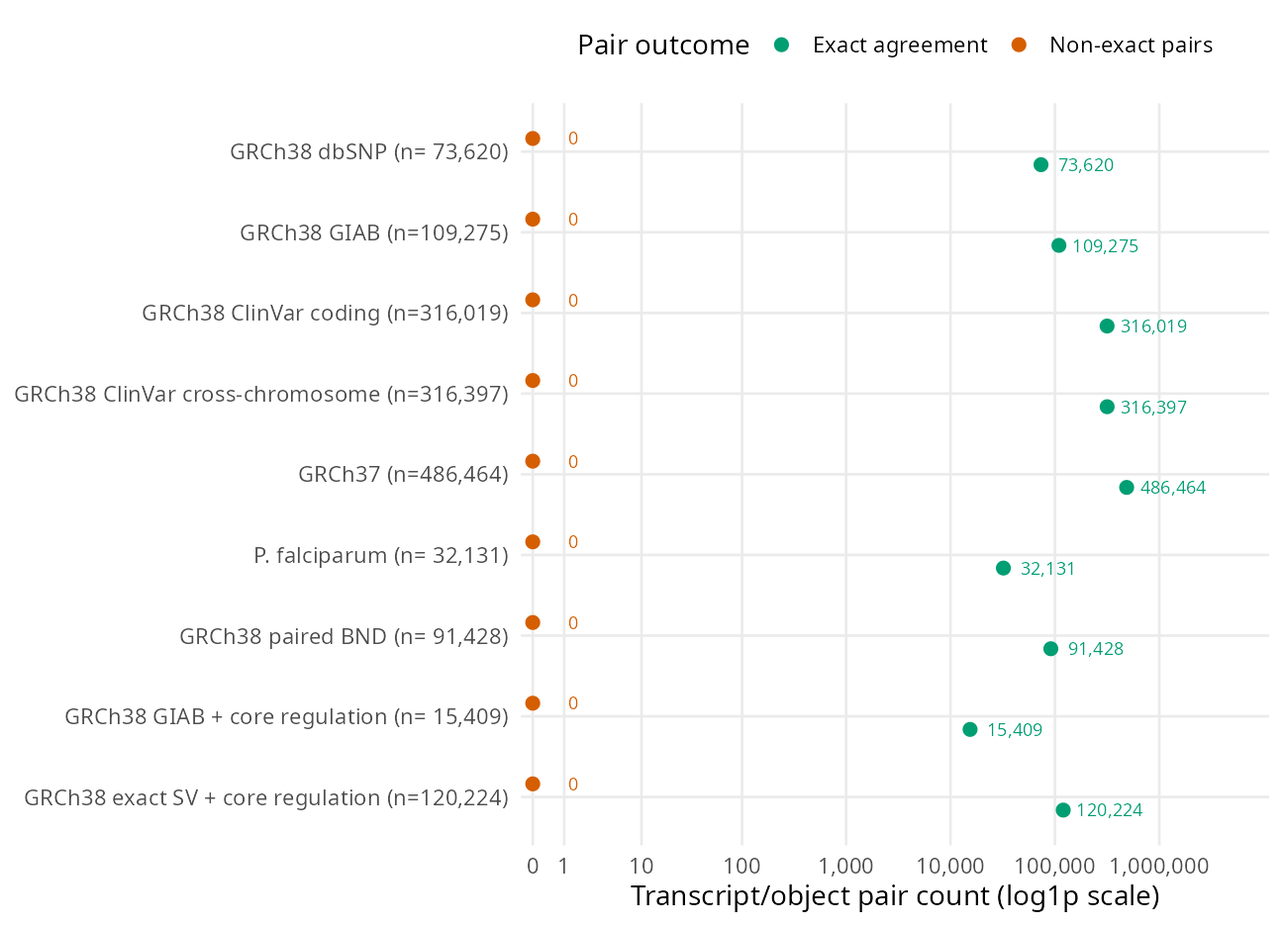
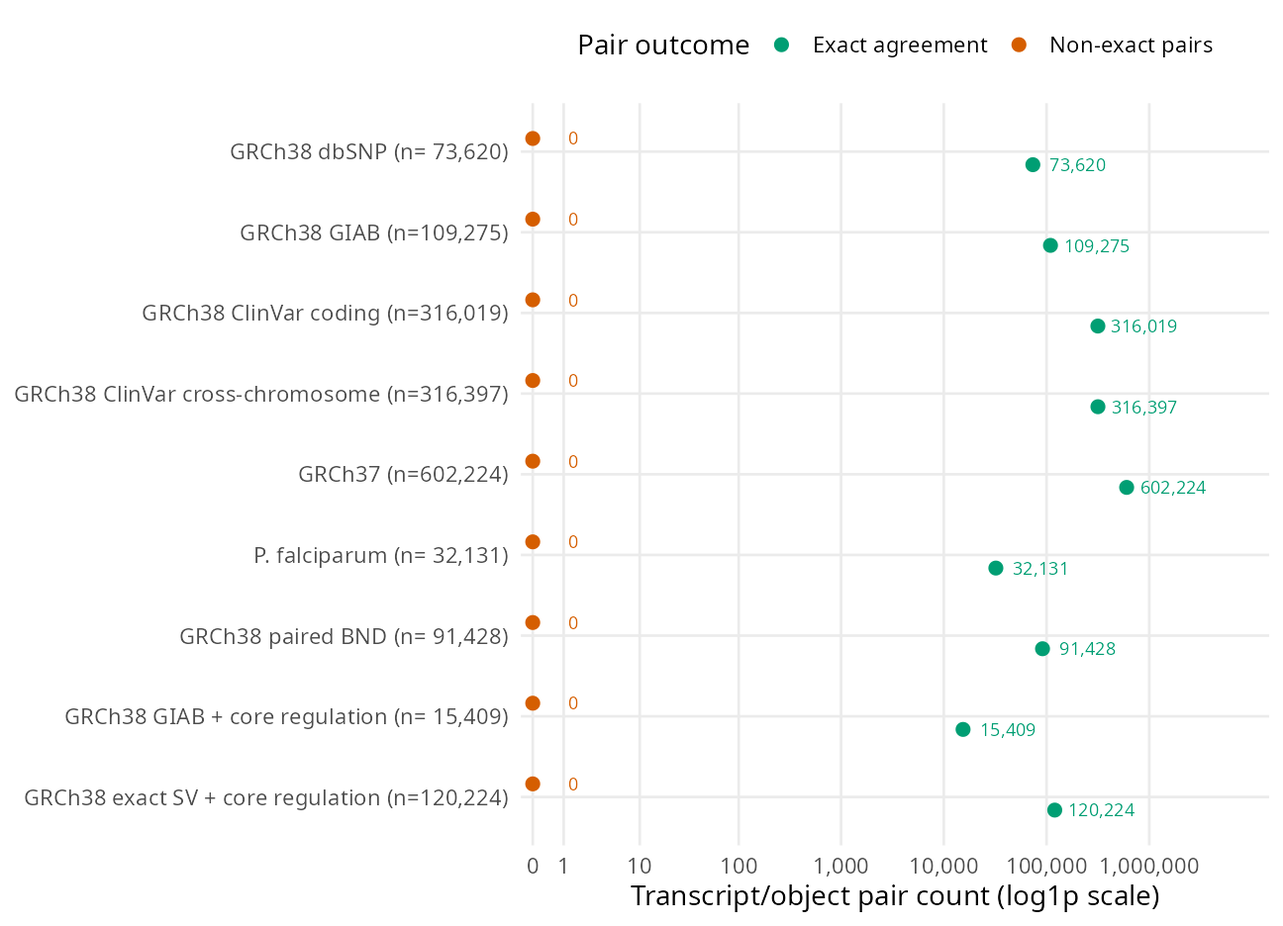
Render the README and conformance report from the release candidate evidence
Refs #71

diff --git a/benchmarks/duckvep_conformance.md b/benchmarks/duckvep_conformance.md
@@ -113,14 +113,14 @@ Exact counts, corpus revisions and descriptive pair statistics
 | revision | corpus                            | model                      | assembly       | species               | oracle_source | oracle    |  pairs | exact         | unresolved | resolved_disagreements | engine_extra | engine_missing | descriptive_independent_pair_upper_95 |
 |:---------|:----------------------------------|:---------------------------|:---------------|:----------------------|:--------------|:----------|-------:|:--------------|-----------:|-----------------------:|-------------:|---------------:|:--------------------------------------|
 | b204dd49 | GRCh38 dbSNP                      | final-dbsnp                | GRCh38         | homo_sapiens          | cache         | VEP 116.0 |  73620 | 73620/73620   |          0 |                      0 |            0 |              0 | 0.01%                                 |
-| 39760c1b | GRCh38 GIAB                       | final-giab                 | GRCh38         | homo_sapiens          | cache         | VEP 116.0 | 109275 | 109275/109275 |          0 |                      0 |            0 |              0 | 0.00%                                 |
-| b8d1733f | GRCh38 ClinVar coding             | final-coding               | GRCh38         | homo_sapiens          | cache         | VEP 116.0 | 316019 | 316019/316019 |          0 |                      0 |            0 |              0 | 0.00%                                 |
+| 345514d6 | GRCh38 GIAB                       | final-giab                 | GRCh38         | homo_sapiens          | cache         | VEP 116.0 | 109275 | 109275/109275 |          0 |                      0 |            0 |              0 | 0.00%                                 |
+| 345514d6 | GRCh38 ClinVar coding             | final-coding               | GRCh38         | homo_sapiens          | cache         | VEP 116.0 | 316019 | 316019/316019 |          0 |                      0 |            0 |              0 | 0.00%                                 |
 | 22803a40 | GRCh38 ClinVar cross-chromosome   | final-clinvar              | GRCh38         | homo_sapiens          | cache         | VEP 116.0 | 316397 | 316397/316397 |          0 |                      0 |            0 |              0 | 0.00%                                 |
-| 7dd90ce8 | GRCh37                            | final-grch37               | GRCh37         | homo_sapiens          | cache         | VEP 116.0 | 486464 | 486464/486464 |          0 |                      0 |            0 |              0 | 0.00%                                 |
-| 41a8a423 | P. falciparum                     | plasmodium-falciparum-63   | GCA000002765v3 | plasmodium_falciparum | cache         | VEP 116.0 |  32131 | 32131/32131   |          0 |                      0 |            0 |              0 | 0.01%                                 |
-| 116854e9 | GRCh38 paired BND                 | grch38_breakend_multichrom | GRCh38         | homo_sapiens          | cache         | VEP 116.0 |  91428 | 91428/91428   |          0 |                      0 |            0 |              0 | 0.00%                                 |
-| 7ce94fce | GRCh38 GIAB + core regulation     | differential               | GRCh38         | homo_sapiens          | cache         | VEP 116.0 |  15409 | 15409/15409   |          0 |                      0 |            0 |              0 | 0.02%                                 |
-| 579b6f65 | GRCh38 exact SV + core regulation | differential               | GRCh38         | homo_sapiens          | cache         | VEP 116.0 | 120224 | 120224/120224 |          0 |                      0 |            0 |              0 | 0.00%                                 |
+| 6f461e7b | GRCh37                            | final-grch37               | GRCh37         | homo_sapiens          | cache         | VEP 116.0 | 602224 | 602224/602224 |          0 |                      0 |            0 |              0 | 0.00%                                 |
+| 6f461e7b | P. falciparum                     | plasmodium-falciparum-63   | GCA000002765v3 | plasmodium_falciparum | cache         | VEP 116.0 |  32131 | 32131/32131   |          0 |                      0 |            0 |              0 | 0.01%                                 |
+| 345514d6 | GRCh38 paired BND                 | grch38_breakend_multichrom | GRCh38         | homo_sapiens          | cache         | VEP 116.0 |  91428 | 91428/91428   |          0 |                      0 |            0 |              0 | 0.00%                                 |
+| 6f461e7b | GRCh38 GIAB + core regulation     | differential               | GRCh38         | homo_sapiens          | cache         | VEP 116.0 |  15409 | 15409/15409   |          0 |                      0 |            0 |              0 | 0.02%                                 |
+| 6f461e7b | GRCh38 exact SV + core regulation | differential               | GRCh38         | homo_sapiens          | cache         | VEP 116.0 | 120224 | 120224/120224 |          0 |                      0 |            0 |              0 | 0.00%                                 |
 
 </details>
 
@@ -145,8 +145,8 @@ Full conformance ledger, properties and species receipts
 
 | revision | corpus                          | model        | metric | exact           | match | both_absent | discordant |
 |:---------|:--------------------------------|:-------------|:-------|:----------------|------:|------------:|-----------:|
-| 35ebf46b | clinvar_chr21_hgvs_seed113      | differential | HGVSC  | 56,998/56,998   | 44871 |       12127 |          0 |
-| 35ebf46b | clinvar_chr21_hgvs_seed113      | differential | HGVSP  | 56,998/56,998   | 20782 |       36216 |          0 |
+| 6f461e7b | clinvar_chr21_hgvs_seed113      | differential | HGVSC  | 56,998/56,998   | 44871 |       12127 |          0 |
+| 6f461e7b | clinvar_chr21_hgvs_seed113      | differential | HGVSP  | 56,998/56,998   | 20782 |       36216 |          0 |
 | 6ce2ddd8 | hgvs_terminal_multiplication    | differential | HGVSC  | 4/4             |     1 |           3 |          0 |
 | 6ce2ddd8 | hgvs_terminal_multiplication    | differential | HGVSP  | 4/4             |     0 |           4 |          0 |
 | 6ce2ddd8 | state_exploration_seed_16180339 | differential | HGVSC  | 100,268/100,268 | 99169 |        1099 |          0 |
@@ -160,7 +160,7 @@ Full conformance ledger, properties and species receipts
 
 | revision | corpus                          | extension_build               | extension    | model_kind | model        | reference    | reference_index | source_vcf   | input_vcf    | pair_artifact |
 |:---------|:--------------------------------|:------------------------------|:-------------|:-----------|:-------------|:-------------|:----------------|:-------------|:-------------|:--------------|
-| 35ebf46b | clinvar_chr21_hgvs_seed113      | htslib_distclean_make_release | 3e92ad1ade9a | duckdb     | 0301905915b0 | 1e74081a49ce | 0998f61682f4    | 7ecec9a75071 | 7ecec9a75071 | 6cbedcb84af7  |
+| 6f461e7b | clinvar_chr21_hgvs_seed113      | htslib_distclean_make_release | fbdd4b783e2e | duckdb     | 0301905915b0 | 1e74081a49ce | 0998f61682f4    | 7ecec9a75071 | 7ecec9a75071 | a46d4f7fd2bb  |
 | 6ce2ddd8 | hgvs_terminal_multiplication    | htslib_distclean_make_release | 3213f0a209bf | sql        | b21fbeac2c28 | 01d1f0252130 | 154cbe440869    | bfa15d2786f3 | c4182bf1b769 | eb37a23b382c  |
 | 6ce2ddd8 | state_exploration_seed_16180339 | htslib_distclean_make_release | 3213f0a209bf | sql        | b21fbeac2c28 | 01d1f0252130 | 154cbe440869    | 2d8315a4926a | 53150698e457 | ce7688057f5b  |
 | 6ce2ddd8 | state_exploration_seed_27182818 | htslib_distclean_make_release | 3213f0a209bf | sql        | b21fbeac2c28 | 01d1f0252130 | 154cbe440869    | ec5a793adc6b | 8486a6b4c05e | 2aba7e180609  |
@@ -206,7 +206,7 @@ gate.
 
 | revision | generated_events | transcript_pairs | exact         | unresolved | extra | missing | descriptive_independent_pair_upper_95 |
 |:---------|:-----------------|:-----------------|:--------------|-----------:|------:|--------:|:--------------------------------------|
-| 116854e9 | 1,004            | 91,428           | 91,428/91,428 |          0 |     0 |       0 | 0.00%                                 |
+| 345514d6 | 1,004            | 91,428           | 91,428/91,428 |          0 |     0 |       0 | 0.00%                                 |
 
 The generated seed-31 corpus spans chromosomes 1, 2, 7, 21, and X;
 intra- and interchromosomal mates; all four VCF bracket orientations;
@@ -360,6 +360,7 @@ recorded.
 | 2026-11-15 | 35ebf46b        | clinvar_chr21_hgvs_seed113                               | differential               |   56998 |       56998 |          0 |      56998 |                   0 | 100.00%    | 0.01%                                 |
 | 2026-11-15 | 39760c1b        | final_giab_grch38_seed71                                 | final-giab                 |  109275 |      109275 |          0 |     109275 |                   0 | 100.00%    | 0.00%                                 |
 | 2026-11-15 | 41a8a423        | plasmodium-falciparum-vep63-seed11663                    | plasmodium-falciparum-63   |   32131 |       32131 |          0 |      32131 |                   0 | 100.00%    | 0.01%                                 |
+| 2026-11-15 | 4a94c34e        | final_grch37_cache_seed37                                | final-grch37               |  602224 |      602224 |          0 |     602224 |                   0 | 100.00%    | 0.00%                                 |
 | 2026-11-15 | 579b6f65        | regulation_sv_chr21_seed17                               | differential               |  120224 |      120224 |          0 |     120224 |                   0 | 100.00%    | 0.00%                                 |
 | 2026-11-15 | 5c1df7c4        | generated_sv_chr22_seed401                               | differential               |  547182 |      547182 |          0 |     547182 |                   0 | 100.00%    | 0.00%                                 |
 | 2026-11-15 | 7ce94fce        | regulation_giab_chr21_seed1                              | differential               |   15409 |       15409 |          0 |      15409 |                   0 | 100.00%    | 0.02%                                 |
@@ -367,6 +368,17 @@ recorded.
 | 2026-11-15 | adf68dfe        | witnesses                                                | differential               |     268 |         268 |          0 |        268 |                   0 | 100.00%    | 1.37%                                 |
 | 2026-11-15 | b8d1733f        | final_clinvar_coding_seed113                             | final-coding               |  316019 |      316019 |          0 |     316019 |                   0 | 100.00%    | 0.00%                                 |
 | 2026-11-15 | e002f531        | nmd_clinvar_chr21                                        | ensembl116-grch38-final    | 1353288 |     1353288 |          0 |    1353288 |                   0 | 100.00%    | 0.00%                                 |
+| 2026-11-19 | 345514d6        | breakend_multichrom_seed31_isolated                      | grch38_breakend_multichrom |   91428 |       91428 |          0 |      91428 |                   0 | 100.00%    | 0.00%                                 |
+| 2026-11-19 | 345514d6        | final_clinvar_coding_seed113                             | final-coding               |  316019 |      316019 |          0 |     316019 |                   0 | 100.00%    | 0.00%                                 |
+| 2026-11-19 | 345514d6        | final_giab_grch38_seed71                                 | final-giab                 |  109275 |      109275 |          0 |     109275 |                   0 | 100.00%    | 0.00%                                 |
+| 2026-11-19 | 345514d6        | generated_sv_chr22_seed401                               | differential               |  547182 |      547182 |          0 |     547182 |                   0 | 100.00%    | 0.00%                                 |
+| 2026-11-19 | 6f461e7b        | clinvar_chr21_hgvs_seed113                               | differential               |   56998 |       56998 |          0 |      56998 |                   0 | 100.00%    | 0.01%                                 |
+| 2026-11-19 | 6f461e7b        | final_grch37_cache_seed37                                | final-grch37               |  602224 |      602224 |          0 |     602224 |                   0 | 100.00%    | 0.00%                                 |
+| 2026-11-19 | 6f461e7b        | nmd_clinvar_chr21                                        | ensembl116-grch38-final    | 1353288 |     1353288 |          0 |    1353288 |                   0 | 100.00%    | 0.00%                                 |
+| 2026-11-19 | 6f461e7b        | plasmodium-falciparum-vep63-seed11663                    | plasmodium-falciparum-63   |   32131 |       32131 |          0 |      32131 |                   0 | 100.00%    | 0.01%                                 |
+| 2026-11-19 | 6f461e7b        | regulation_giab_chr21_seed1                              | differential               |   15409 |       15409 |          0 |      15409 |                   0 | 100.00%    | 0.02%                                 |
+| 2026-11-19 | 6f461e7b        | regulation_sv_chr21_seed17                               | differential               |  120224 |      120224 |          0 |     120224 |                   0 | 100.00%    | 0.00%                                 |
+| 2026-11-19 | 6f461e7b        | state_exploration_seed_31415927                          | differential               |  100268 |      100268 |          0 |     100268 |                   0 | 100.00%    | 0.00%                                 |
 
 ## Randomized executable-VEP state exploration
 
@@ -380,8 +392,8 @@ with differing alleles up to 49 bases.
 
 | revision | seed     | pairs   | exact   | unresolved | resolved_disagreements | descriptive_independent_pair_upper_95_ppm |
 |:---------|:---------|:--------|:--------|:-----------|:-----------------------|:------------------------------------------|
-| 92ad6050 | 31415927 | 100,268 | 100,268 | 0          | 0                      | 36.8                                      |
-| 92ad6050 | combined | 100,268 | 100,268 | 0          | 0                      | 36.8                                      |
+| 6f461e7b | 31415927 | 100,268 | 100,268 | 0          | 0                      | 36.8                                      |
+| 6f461e7b | combined | 100,268 | 100,268 | 0          | 0                      | 36.8                                      |
 
 The combined denominator counts pair comparisons across seed runs, not
 distinct alleles: the 268 fixed witnesses are deliberately shared and
@@ -1370,7 +1382,7 @@ counted once within each corpus.
 | GRCh38 ClinVar cross-chromosome   | HIGH     |  79663 |       79663 |          0 |      79663 |                   0 | 100.00%    | 0.00%                                 |
 | GRCh38 dbSNP                      | HIGH     |    118 |         118 |          0 |        118 |                   0 | 100.00%    | 3.08%                                 |
 | GRCh38 GIAB                       | HIGH     |     31 |          31 |          0 |         31 |                   0 | 100.00%    | 11.22%                                |
-| GRCh37                            | HIGH     |  46645 |       46645 |          0 |      46645 |                   0 | 100.00%    | 0.01%                                 |
+| GRCh37                            | HIGH     |   6997 |        6997 |          0 |       6997 |                   0 | 100.00%    | 0.05%                                 |
 | P. falciparum                     | HIGH     |   1296 |        1296 |          0 |       1296 |                   0 | 100.00%    | 0.28%                                 |
 | GRCh38 GIAB + core regulation     | HIGH     |      5 |           5 |          0 |          5 |                   0 | 100.00%    | 52.18%                                |
 | GRCh38 exact SV + core regulation | HIGH     |  40135 |       40135 |          0 |      40135 |                   0 | 100.00%    | 0.01%                                 |
@@ -1378,7 +1390,7 @@ counted once within each corpus.
 | GRCh38 ClinVar cross-chromosome   | LOW      |  28776 |       28776 |          0 |      28776 |                   0 | 100.00%    | 0.01%                                 |
 | GRCh38 dbSNP                      | LOW      |    349 |         349 |          0 |        349 |                   0 | 100.00%    | 1.05%                                 |
 | GRCh38 GIAB                       | LOW      |    201 |         201 |          0 |        201 |                   0 | 100.00%    | 1.82%                                 |
-| GRCh37                            | LOW      |  23354 |       23354 |          0 |      23354 |                   0 | 100.00%    | 0.02%                                 |
+| GRCh37                            | LOW      |   4588 |        4588 |          0 |       4588 |                   0 | 100.00%    | 0.08%                                 |
 | P. falciparum                     | LOW      |    190 |         190 |          0 |        190 |                   0 | 100.00%    | 1.92%                                 |
 | GRCh38 GIAB + core regulation     | LOW      |     35 |          35 |          0 |         35 |                   0 | 100.00%    | 10.00%                                |
 | GRCh38 exact SV + core regulation | LOW      |    821 |         821 |          0 |        821 |                   0 | 100.00%    | 0.45%                                 |
@@ -1386,7 +1398,7 @@ counted once within each corpus.
 | GRCh38 ClinVar cross-chromosome   | MODERATE |  43286 |       43286 |          0 |      43286 |                   0 | 100.00%    | 0.01%                                 |
 | GRCh38 dbSNP                      | MODERATE |    125 |         125 |          0 |        125 |                   0 | 100.00%    | 2.91%                                 |
 | GRCh38 GIAB                       | MODERATE |    171 |         171 |          0 |        171 |                   0 | 100.00%    | 2.13%                                 |
-| GRCh37                            | MODERATE |  23319 |       23319 |          0 |      23319 |                   0 | 100.00%    | 0.02%                                 |
+| GRCh37                            | MODERATE |   4861 |        4861 |          0 |       4861 |                   0 | 100.00%    | 0.08%                                 |
 | P. falciparum                     | MODERATE |    957 |         957 |          0 |        957 |                   0 | 100.00%    | 0.38%                                 |
 | GRCh38 GIAB + core regulation     | MODERATE |     57 |          57 |          0 |         57 |                   0 | 100.00%    | 6.27%                                 |
 | GRCh38 exact SV + core regulation | MODERATE |    766 |         766 |          0 |        766 |                   0 | 100.00%    | 0.48%                                 |
@@ -1395,7 +1407,7 @@ counted once within each corpus.
 | GRCh38 ClinVar cross-chromosome   | MODIFIER | 164672 |      164672 |          0 |     164672 |                   0 | 100.00%    | 0.00%                                 |
 | GRCh38 dbSNP                      | MODIFIER |  73028 |       73028 |          0 |      73028 |                   0 | 100.00%    | 0.01%                                 |
 | GRCh38 GIAB                       | MODIFIER | 108872 |      108872 |          0 |     108872 |                   0 | 100.00%    | 0.00%                                 |
-| GRCh37                            | MODIFIER | 393146 |      393146 |          0 |     393146 |                   0 | 100.00%    | 0.00%                                 |
+| GRCh37                            | MODIFIER | 585778 |      585778 |          0 |     585778 |                   0 | 100.00%    | 0.00%                                 |
 | P. falciparum                     | MODIFIER |  29688 |       29688 |          0 |      29688 |                   0 | 100.00%    | 0.01%                                 |
 | GRCh38 GIAB + core regulation     | MODIFIER |  15312 |       15312 |          0 |      15312 |                   0 | 100.00%    | 0.02%                                 |
 | GRCh38 exact SV + core regulation | MODIFIER |  78502 |       78502 |          0 |      78502 |                   0 | 100.00%    | 0.00%                                 |
@@ -1425,16 +1437,16 @@ with that run is not an identical-workload comparison.
 
 | revision | corpus            | model                   | exact       | mismatches | not comparable | VEP unresolved | DuckVEP unresolved | descriptive independent-pair upper 95% |
 |:---------|:------------------|:------------------------|:------------|-----------:|---------------:|---------------:|-------------------:|:---------------------------------------|
-| e002f531 | nmd_clinvar_chr21 | ensembl116-grch38-final | 70521/70521 |          0 |              0 |          29954 |              29954 | 0.01%                                  |
+| 6f461e7b | nmd_clinvar_chr21 | ensembl116-grch38-final | 70521/70521 |          0 |              0 |          29954 |              29954 | 0.01%                                  |
 
 The ledger keeps the prediction confusion matrix rather than only the
 total:
 
 | revision | corpus            | VEP_prediction | DuckVEP_prediction |     n |
 |:---------|:------------------|:---------------|:-------------------|------:|
-| e002f531 | nmd_clinvar_chr21 | escaping       | escaping           |  7175 |
-| e002f531 | nmd_clinvar_chr21 | triggering     | triggering         | 33392 |
-| e002f531 | nmd_clinvar_chr21 | unresolved     | unresolved         | 29954 |
+| 6f461e7b | nmd_clinvar_chr21 | escaping       | escaping           |  7175 |
+| 6f461e7b | nmd_clinvar_chr21 | triggering     | triggering         | 33392 |
+| 6f461e7b | nmd_clinvar_chr21 | unresolved     | unresolved         | 29954 |
 
 VEP projects the complete uploaded `VariationFeature` for the plugin’s
 CDS and exon-position rules. DuckVEP therefore retains both geometries:

diff --git a/README.md b/README.md
@@ -14,7 +14,7 @@
 
 DuckVEP is a C extension on DuckDB’s stable C API v1. CI builds and tests it against DuckDB 1.5.6, and the same build loads in DuckDB 2.0.0. Build it from source and load it unsigned:
 
-``` sh
+```sh
 git clone --recurse-submodules https://github.com/RGenomicsETL/DuckVEP
 cd DuckVEP
 make configure release test_release
@@ -29,26 +29,26 @@ An experimental host targets DuckDB 2.0.0’s version-locked C API v2 ([docs/v2-
 
 The [duckvep-models](https://huggingface.co/datasets/RgenomicsETL/duckvep-models) dataset holds one DuckDB file per assembly. The [dataset card](https://huggingface.co/datasets/RgenomicsETL/duckvep-models/blob/main/README.md) gives the load queries, and [`SHA256SUMS`](https://huggingface.co/datasets/RgenomicsETL/duckvep-models/blob/main/SHA256SUMS) lists the checksums.
 
-| Model | File | Size |
-|---|---|---:|
-| Human GRCh38 | [`homo_sapiens_116_GRCh38.duckdb`](https://huggingface.co/datasets/RgenomicsETL/duckvep-models/resolve/main/ensembl-116/homo_sapiens_116_GRCh38.duckdb) | 1.8 GB |
-| Human GRCh37 | [`homo_sapiens_116_GRCh37.duckdb`](https://huggingface.co/datasets/RgenomicsETL/duckvep-models/resolve/main/ensembl-116/homo_sapiens_116_GRCh37.duckdb) | 0.3 GB |
-| MANE on GRCh37 | [`mane-grch37/`](https://huggingface.co/datasets/RgenomicsETL/duckvep-models/tree/main/ensembl-116/mane-grch37) (mapping, transcript authorities, receipt) | 8 MB |
+| Model          | File                                                                                                                                                       |   Size |
+|----------------|------------------------------------------------------------------------------------------------------------------------------------------------------------|-------:|
+| Human GRCh38   | [`homo_sapiens_116_GRCh38.duckdb`](https://huggingface.co/datasets/RgenomicsETL/duckvep-models/resolve/main/ensembl-116/homo_sapiens_116_GRCh38.duckdb)    | 1.8 GB |
+| Human GRCh37   | [`homo_sapiens_116_GRCh37.duckdb`](https://huggingface.co/datasets/RgenomicsETL/duckvep-models/resolve/main/ensembl-116/homo_sapiens_116_GRCh37.duckdb)    | 0.3 GB |
+| MANE on GRCh37 | [`mane-grch37/`](https://huggingface.co/datasets/RgenomicsETL/duckvep-models/tree/main/ensembl-116/mane-grch37) (mapping, transcript authorities, receipt) |   8 MB |
 
 Attach a file in place, or download it first:
 
-``` sql
+```sql
 INSTALL httpfs; LOAD httpfs;
 ATTACH 'hf://datasets/RgenomicsETL/duckvep-models/ensembl-116/homo_sapiens_116_GRCh38.duckdb' AS src (READ_ONLY);
 ```
 
-A download link without a revision follows the dataset's `main` branch. Record the dataset revision and the file checksum with any result you keep. [Publishing to Hugging Face](docs/publishing-hugging-face.md) describes how these files are staged, checked and uploaded.
+A download link without a revision follows the dataset’s `main` branch. Record the dataset revision and the file checksum with any result you keep. [Publishing to Hugging Face](docs/publishing-hugging-face.md) describes how these files are staged, checked and uploaded.
 
 ## Try it
 
 A model is loaded from three relations: regions, transcripts (with CDS and flanking sequence) and exons. In practice they come from an Ensembl core database through `query(duckvep_ensembl_regions_sql(...))` and `query(duckvep_ensembl_transcripts_sql(...))`; here a [one-transcript fixture](test/data/duckvep/readme.sql) stands in:
 
-``` sql
+```sql
 SELECT loaded FROM duckvep_model_load('demo',
   'SELECT * FROM readme_regions ORDER BY seq_region',
   'SELECT * FROM readme_transcripts ORDER BY seq_region, transcript_start',
@@ -63,7 +63,7 @@ SELECT loaded FROM duckvep_model_load('demo',
 
 The model stays resident in the session. Annotate seven variants, from the 5′ UTR to the intron, and join the results back to the input:
 
-``` sql
+```sql
 CREATE TABLE demo_events AS
 SELECT row_number() OVER (ORDER BY position, alternate)::UBIGINT AS event_index,
        1::UINTEGER AS seq_region, position::UBIGINT AS position, reference, alternate,
@@ -96,7 +96,7 @@ The frameshift and the stop gain escape nonsense-mediated decay because they fal
 
 The empty HGVS fields are deliberate: this model was loaded without a reference FASTA, and those notations need flanking sequence to shift and render. Every row says why:
 
-``` sql
+```sql
 SELECT e.position, a.transcript_hgvs_status, a.transcript_hgvs_reason
 FROM query(duckvep_annotate_sql('demo_events', 'demo', struct_pack(hgvs := true))) a
 JOIN demo_events e USING (event_index)
@@ -115,7 +115,7 @@ ORDER BY e.position;
 
 Phased genotypes give whole-haplotype consequences. The changes at 124 and 125 sit in the same codon (Val2): alone, one is missense and the other synonymous; on the same haplotype they make one codon, GTA to GCG, classified once:
 
-``` sql
+```sql
 CREATE TABLE demo_calls AS
 SELECT event_index, seq_region, position, reference, alternate,
        1::UINTEGER alt_index, 0::UINTEGER transcript_index, 0::UBIGINT sample_index,
@@ -137,7 +137,7 @@ For VCF or BCF input, [`duckvep_coding_calls(model, path)`](docs/functions.md#du
 
 ## How close to VEP
 
-Across 9 recorded corpora, executable Ensembl VEP and DuckVEP agree on **1,676,727 of 1,676,727 transcript and feature pairs**; 0 are unresolved and 0 differ. The corpora cover GRCh37 and GRCh38, *Plasmodium falciparum* genetic codes, small variants, exact structural events, paired breakends, and regulatory and motif features. HGVS against VEP `--hgvs`: 358,074 of 358,074 HGVSc and 358,074 of 358,074 HGVSp pairs agree, 56,998 of them from ClinVar chromosome 21. The displayed corpus rows are dated 2026-11-15; the displayed HGVS rows are dated 2026-11-15. These are historical recorded results, not measurements of this checkout; changes merged after their source revisions are not covered until the corpora are rerun.
+Across 9 recorded corpora, executable Ensembl VEP and DuckVEP agree on **1,676,727 of 1,676,727 transcript and feature pairs**; 0 are unresolved and 0 differ. The corpora cover GRCh37 and GRCh38, *Plasmodium falciparum* genetic codes, small variants, exact structural events, paired breakends, and regulatory and motif features. HGVS against VEP `--hgvs`: 358,074 of 358,074 HGVSc and 358,074 of 358,074 HGVSp pairs agree, 56,998 of them from ClinVar chromosome 21. The displayed corpus rows are dated 2026-11-19; the displayed HGVS rows are dated 2026-11-19. These are historical recorded results, not measurements of this checkout; changes merged after their source revisions are not covered until the corpora are rerun.
 
 The [conformance report](benchmarks/duckvep_conformance.md) has the methods and term-level results; the [consequence](test/duckvep/conformance/data/conformance_history.csv) and [HGVS](test/duckvep/conformance/data/hgvs_history.csv) ledgers hold every run with its source revision.
 
@@ -149,14 +149,14 @@ Per-corpus counts
 | Corpus                                 | Assembly        | Oracle  |   Pairs |   Exact | Unresolved | Different | Run date   |
 |:---------------------------------------|:----------------|:--------|--------:|--------:|-----------:|----------:|:-----------|
 | dbSNP 157 windows                      | GRCh38          | VEP 116 |  73,620 |  73,620 |          0 |         0 | 2026-07-14 |
-| GIAB HG002 small variants              | GRCh38          | VEP 116 | 109,275 | 109,275 |          0 |         0 | 2026-11-15 |
-| ClinVar coding                         | GRCh38          | VEP 116 | 316,019 | 316,019 |          0 |         0 | 2026-11-15 |
+| GIAB HG002 small variants              | GRCh38          | VEP 116 | 109,275 | 109,275 |          0 |         0 | 2026-11-19 |
+| ClinVar coding                         | GRCh38          | VEP 116 | 316,019 | 316,019 |          0 |         0 | 2026-11-19 |
 | ClinVar, all chromosomes               | GRCh38          | VEP 116 | 316,397 | 316,397 |          0 |         0 | 2026-07-16 |
-| GRCh37 cache corpus                    | GRCh37          | VEP 116 | 602,224 | 602,224 |          0 |         0 | 2026-11-15 |
-| *P. falciparum* (Ensembl Genomes 63)   | GCA_000002765v3 | VEP 116 |  32,131 |  32,131 |          0 |         0 | 2026-11-15 |
-| Paired breakends, multi-chromosome     | GRCh38          | VEP 116 |  91,428 |  91,428 |          0 |         0 | 2026-11-15 |
-| GIAB + regulatory and motif features   | GRCh38          | VEP 116 |  15,409 |  15,409 |          0 |         0 | 2026-11-15 |
-| Exact structural variants + regulation | GRCh38          | VEP 116 | 120,224 | 120,224 |          0 |         0 | 2026-11-15 |
+| GRCh37 cache corpus                    | GRCh37          | VEP 116 | 602,224 | 602,224 |          0 |         0 | 2026-11-19 |
+| *P. falciparum* (Ensembl Genomes 63)   | GCA_000002765v3 | VEP 116 |  32,131 |  32,131 |          0 |         0 | 2026-11-19 |
+| Paired breakends, multi-chromosome     | GRCh38          | VEP 116 |  91,428 |  91,428 |          0 |         0 | 2026-11-19 |
+| GIAB + regulatory and motif features   | GRCh38          | VEP 116 |  15,409 |  15,409 |          0 |         0 | 2026-11-19 |
+| Exact structural variants + regulation | GRCh38          | VEP 116 | 120,224 | 120,224 |          0 |         0 | 2026-11-19 |
 
 </details>
 
@@ -180,9 +180,9 @@ Measured on one host (Intel i5-13500, cores pinned) with the Ensembl 116 GRCh38 
 
 | Workload                                                        | DuckVEP                                       | Comparison                                                                  |
 |-----------------------------------------------------------------|-----------------------------------------------|-----------------------------------------------------------------------------|
-| Annotate GIAB HG002 (4,095,611 alleles), consequence codes only | 1,090,418 alleles/s on 1 core; 4,031,113 on 4 |                                                                             |
-| Same, with rich columns and HGVS                                | 174,772 alleles/s on 1 core; 626,528 on 4     |                                                                             |
-| HG002 end to end on 1 core: read VCF, annotate, write output    | 35.0 s, 2.7 GiB peak                          | [vep-rs](https://github.com/natera-open-source/vep-rs) 41.9 s, 2.8 GiB peak |
+| Annotate GIAB HG002 (4,095,611 alleles), consequence codes only | 1,216,759 alleles/s on 1 core; 4,380,333 on 4 |                                                                             |
+| Same, with rich columns and HGVS                                | 164,608 alleles/s on 1 core; 584,169 on 4     |                                                                             |
+| HG002 end to end on 1 core: read VCF, annotate, write output    | 34.3 s, 2.7 GiB peak                          | [vep-rs](https://github.com/natera-open-source/vep-rs) 41.2 s, 2.8 GiB peak |
 | HG002 whole haplotypes on 1 core, model load included           | 8.7 s from the CLI, 9.1 s from R              | `bcftools csq` 17.1 s                                                       |
 | Load the model                                                  | 0.55 s from a snapshot (1.3 GiB)              | 2.33 s from relations (1.48 s on 8 threads)                                 |
 
@@ -206,7 +206,7 @@ Untested species and releases, and genomic or structural HGVS beyond the [exact-
 
 `Rduckvep` runs the same builders on your DuckDB connection: builder functions return SQL, and `rduckvep_annotate()` runs it and returns a data frame. Queries can read anything on that connection, TEMP tables included.
 
-``` r
+```r
 con <- Rduckvep::rduckvep_connect()
 # After loading a model named "demo" and creating "demo_events":
 results <- Rduckvep::rduckvep_annotate(con, "demo_events", "demo", hgvs = TRUE)
@@ -217,7 +217,7 @@ DBI::dbDisconnect(con, shutdown = TRUE)
 
 DuckVEP needs no other extension, but it is meant to share a query with them: [DuckHTS](https://github.com/RGenomicsETL/duckhts) reads the VCF and [DuckClinVarbitration](https://github.com/RGenomicsETL/DuckClinVarbitration) supplies arbitrated ClinVar decisions. Not evaluated here, since it needs a full Ensembl model and both extensions:
 
-``` sql
+```sql
 -- The model's regions under the VCF's own contig names: DuckHTS reads the header, and
 -- duckhts_contig_key maps each name (chr1, chrM) to Ensembl's (1, MT). Breakend mates
 -- written in ALT (A[chr2:200[) resolve through the same rows.
